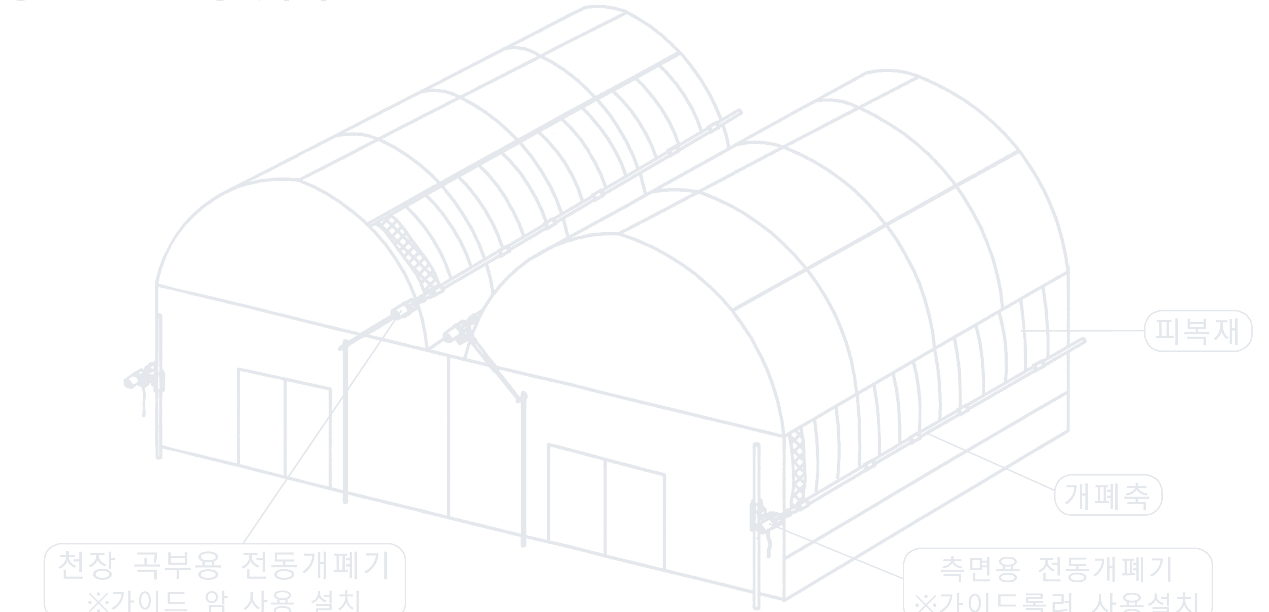
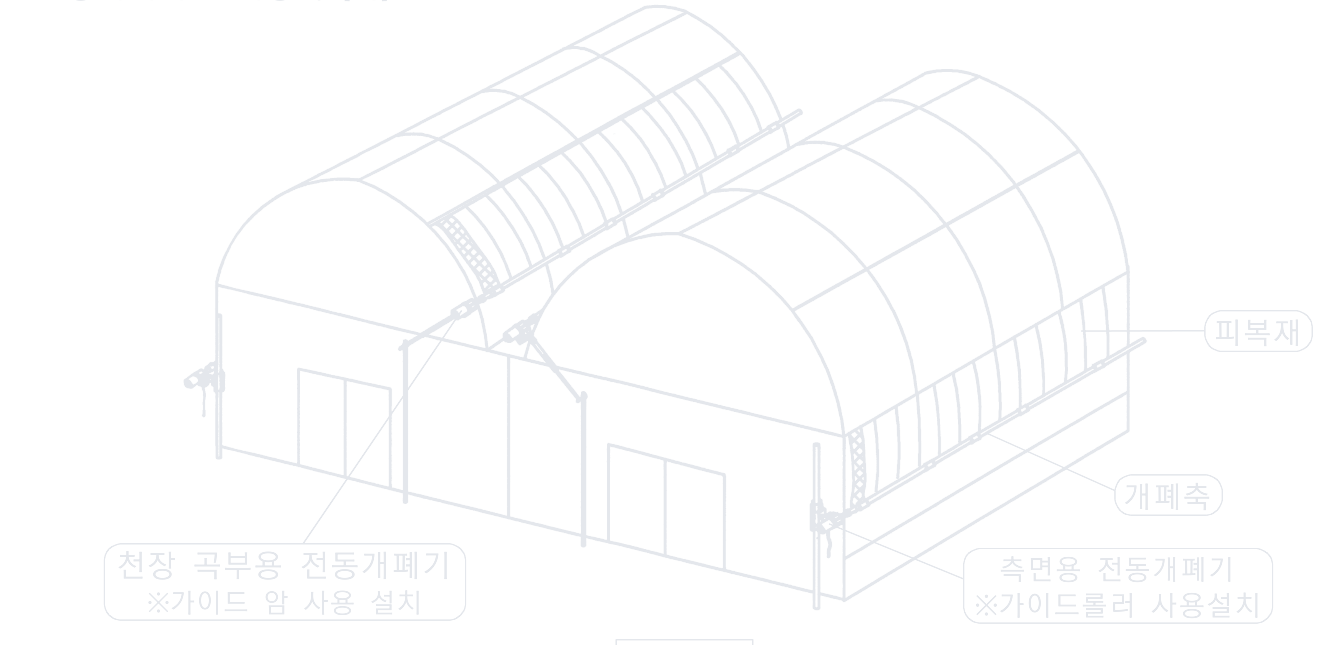
설치 개요 도해 하단 잘림 수정 (재크롭)
기존 inst_overview는 4035에서 물려받은 크롭이 하단 라벨을 잘라
"※가이드 암 사용 설치" / "※가이드롤러 사용설치" 아랫줄이 보이지 않았음.
원본 p7을 재분석해 헤딩("■전동개폐기 설치방식") 아래(y0=0.200)부터
그림3-1 캡션 위(y1=0.476)까지 정밀 재크롭 → 하단 라벨 2줄 완전 복원.
이미지 크기 변경에 맞춰 마커 4개를 각 카드 좌측상단으로 재배치.
라이트/다크 라인아트 쌍 재생성.

diff --git a/marker_edit.html b/marker_edit.html
@@ -58,8 +58,8 @@ const DIAGRAMS = [
    [1,"모터쪽(방향)",50,20],[2,"LED 표시",87.5,28.5],[3,"스위치 롤러",12.5,45.5],[4,"다이얼 돌기",12.5,54],
    [5,"화살표시",87.5,55.5],[6,"설정 노브",87.5,64],[7,"회전 숫자",87.5,73],[8,"회전수 눈금",88.5,83.5],
    [9,"적색 다이얼",40,94.5],[10,"녹색 다이얼",64,94.5]]},
- {src:"img/inst_overview.png", title:"3. 설치 개요", mk:[
-   [1,"피복재",92.5,56],[2,"개폐 축",92.5,78.5],[3,"천장 곡부용 전동개폐기",29,92],[4,"측면용 전동개폐기",80,92]]},
+ {src:"img/inst_overview.png", title:"3. 설치 개요 (재크롭·하단 라벨 복원)", mk:[
+   [1,"피복재",92.5,50],[2,"개폐 축",85.5,73],[3,"천장 곡부용 전동개폐기",10,82.5],[4,"측면용 전동개폐기",72.5,82.5]]},
  {src:"img/inst_arm.png", title:"4. 가이드 암 조립도 (6035 신규 도해)", mk:[
    [1,"커플링 고정볼트",5,10],[2,"개폐축 고정볼트(위)",30,4],[3,"전동개폐기",4,18],[4,"개폐 축",67,14.5],
    [5,"커플링",67,21.5],[2,"개폐축 고정볼트(우)",63,27],[6,"가이드암 커플링 체결볼트",60,34],[7,"가이드암 고정볼트",62,43],

diff --git a/index.html b/index.html
@@ -513,7 +513,7 @@
   <section id="install">
     <h2><span class="bar"></span>Ⅳ. 설치방법</h2>
     <p class="lead">원예시설 형태는 매우 다양하며 설치방법도 다양합니다. 아래는 대표적인 방법의 <b>[예]</b>이며, 자세한 것은 원예시설 자동화 전문업체와 상담하여 현장에 알맞게 설치하십시오.</p>
-    <figure class="figbox"><div class="partfig"><img class="lineart" src="img/inst_overview.png" data-dark="img/inst_overview_dark.png" alt="설치 개요" loading="lazy"><span class="mk" style="left:92.5%;top:56%" data-notrans>1</span><span class="mk" style="left:92.5%;top:78.5%" data-notrans>2</span><span class="mk" style="left:29%;top:92%" data-notrans>3</span><span class="mk" style="left:80%;top:92%" data-notrans>4</span></div><figcaption>설치 개요 · 천장 곡부용(가이드 암) / 측면용(가이드 롤러)</figcaption></figure>
+    <figure class="figbox"><div class="partfig"><img class="lineart" src="img/inst_overview.png" data-dark="img/inst_overview_dark.png" alt="설치 개요" loading="lazy"><span class="mk" style="left:92.5%;top:50%" data-notrans>1</span><span class="mk" style="left:85.5%;top:73%" data-notrans>2</span><span class="mk" style="left:10%;top:82.5%" data-notrans>3</span><span class="mk" style="left:72.5%;top:82.5%" data-notrans>4</span></div><figcaption>설치 개요 · 천장 곡부용(가이드 암) / 측면용(가이드 롤러)</figcaption></figure>
     <div class="imgleg-t">그림 속 명칭</div>
     <ul class="imgleg">
       <li>피복재</li>